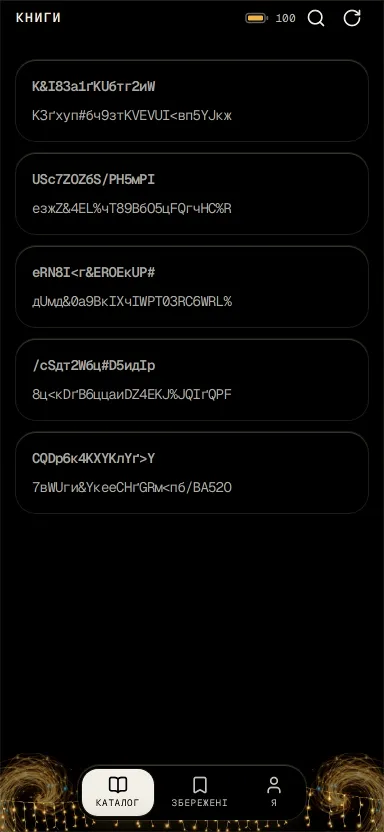
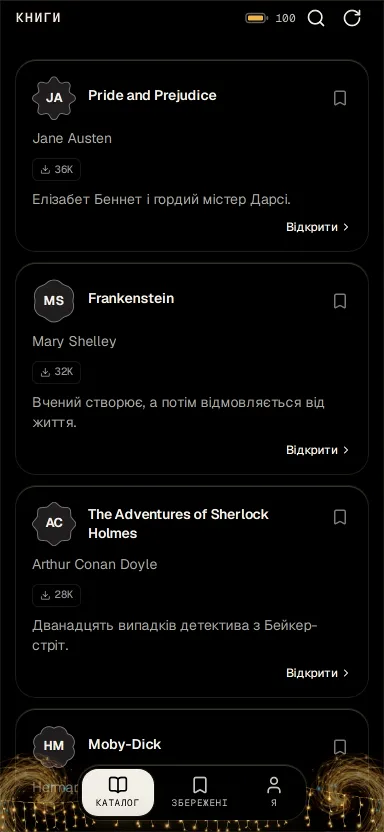
farm → core 1.2.134: the feeds carry their objects' own forms
the free-forms design through `card.form`, now on feed and gallery
(core 499ee80b), one spec line per card:
- books: the author's form with the author's initials (JA, MS, AC…).
- hf: the author's / org's form with its initial.
- hn: the poster's form with the initial.
- cinema, wiki: the card's picture seen through the film's / article's form
  (it leaves the 16:9 banner).
- openapps: every app's icon through its own form, as the store's apps.
hf alongside: spec `enrich` reads `readme`, which is empty for a gated model
(the list now asks `expand[]=gated`) — a gated README answers 401 to a
browser without a grant, 24 failed loads on every list, measured before and 0
after; gated cards had no prose either way.
Store: the six feeds' main-tab captures retaken in both themes on 1.2.134.
The bump itself: `deno outdated --update --lockfile-only` kept the jsr @1 at
1.2.133 (stale registry meta); `deno update` moved it, the two `@1` ranges
were put back by hand and the lock's `@1` keys pointed at 1.2.134 — the lock
is Deno's own (`deno install --frozen` accepts it); it also dropped the
dependency lists of old, unused core entries. node_modules lost daisyui's and
fast-uri's files in the reinstall (this device's hard links) — refilled from
the Deno cache.
Eye on the dev server (local core, then the installed 1.2.134): all seven,
dark and paper, no page errors (hn's occasional 403 from its prose fetch
predates this).

diff --git a/apps/hf/data.js b/apps/hf/data.js
@@ -16,6 +16,7 @@ export async function load(filters = {}) {
   const params = new URLSearchParams({ sort, direction: "-1", limit: "40" });
   if (q) params.set("search", q);
   if (cat) params.set("filter", cat);
+  if (!spaces) for (const f of ["downloads", "likes", "pipeline_tag", "library_name", "createdAt", "gated"]) params.append("expand[]", f);
   const data = await fetchJson(`https://huggingface.co/api/${kind}?${params}`, { array: true });
   const items = (Array.isArray(data) ? data : []).map((m) => {
     const id = m.id || m.modelId || "";
@@ -31,6 +32,7 @@ export async function load(filters = {}) {
       likes: compact(m.likes),
       createdAt: m.createdAt ? Date.parse(m.createdAt) : 0,
       url: spaces ? `https://huggingface.co/spaces/${id}` : `https://huggingface.co/${id}`,
+      readme: m.gated ? "" : (spaces ? `https://huggingface.co/spaces/${id}` : `https://huggingface.co/${id}`),
     };
   }).filter((it) => it.id);
   return { items, meta: {} };
